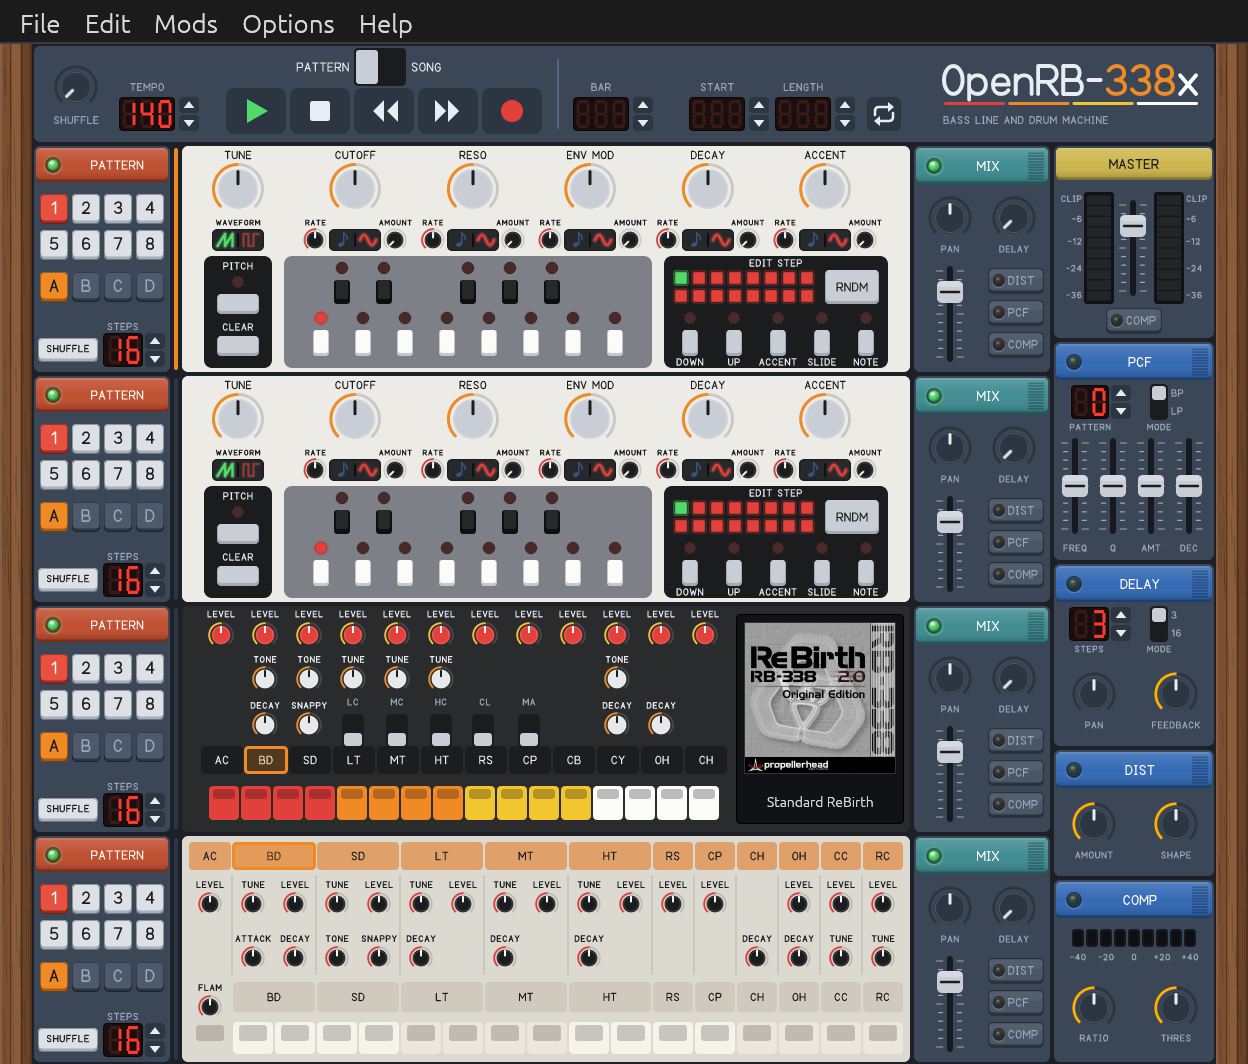
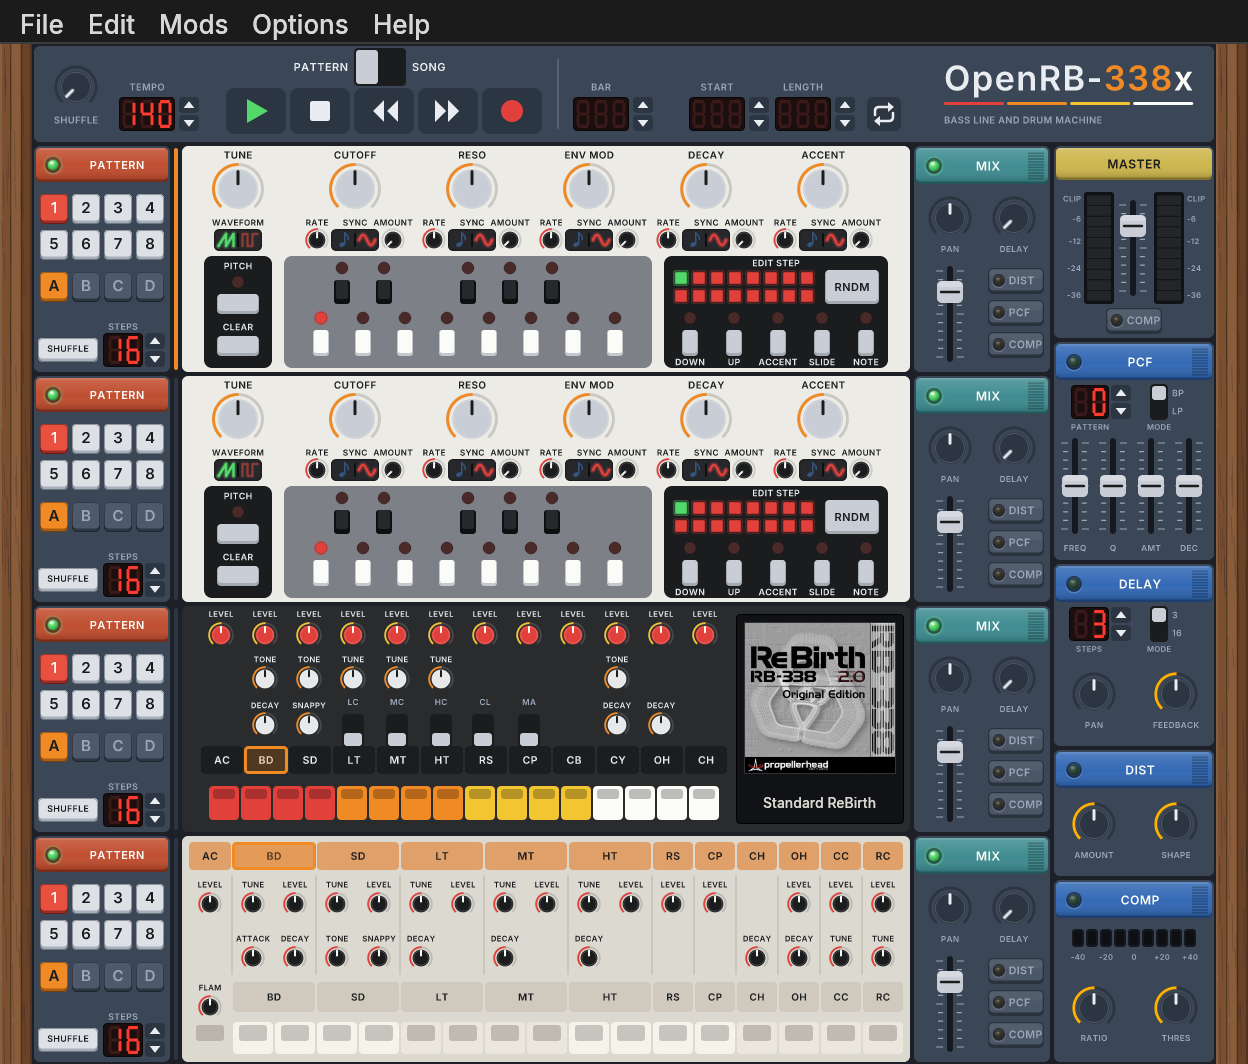
docs: README for the RNDM menu, Inter, the startup sound and the step light

diff --git a/README.md b/README.md
@@ -38,13 +38,15 @@ extra features for the two bass synths. Everything the original does, it does to
   AMOUNT knobs, a note button that ties the rate to the song's tempo, and a wave button that
   flips between a sine and a random sine. The knob's arc shows the moving value.
 - **Step LEDs:** 16 LEDs in the step editor choose the step to edit (green); the steps of the
-  pattern's length are lit red.
+  pattern's length are lit red, and the step that plays flashes yellow.
 - **The waveform as two pictures** (saw and square) to click, under TUNE, now a large knob
   like the others.
 - **Hear the note in pitch mode:** while the song is stopped, a key pressed in pitch mode plays
   its note with the synth's current sound.
 - **`.rbsx` songs:** a ReBirth song plus the GENERATE and LFO settings. Plain `.rbs` songs still
   open and save as before; Save As has a button for each format.
+- **The Inter typeface** for the panel's labels, the logo and the windows, and this fork's own
+  startup sound.
 - **Copy, Cut and Paste of a pattern:** Cmd+C, Cmd+X and Cmd+V on macOS (Ctrl on Windows and
   Linux) work on the selected pattern of the row with the focus, with its steps, length and
   shuffle. The Edit menu and a right click on the lit pattern button have them too. A 303's
